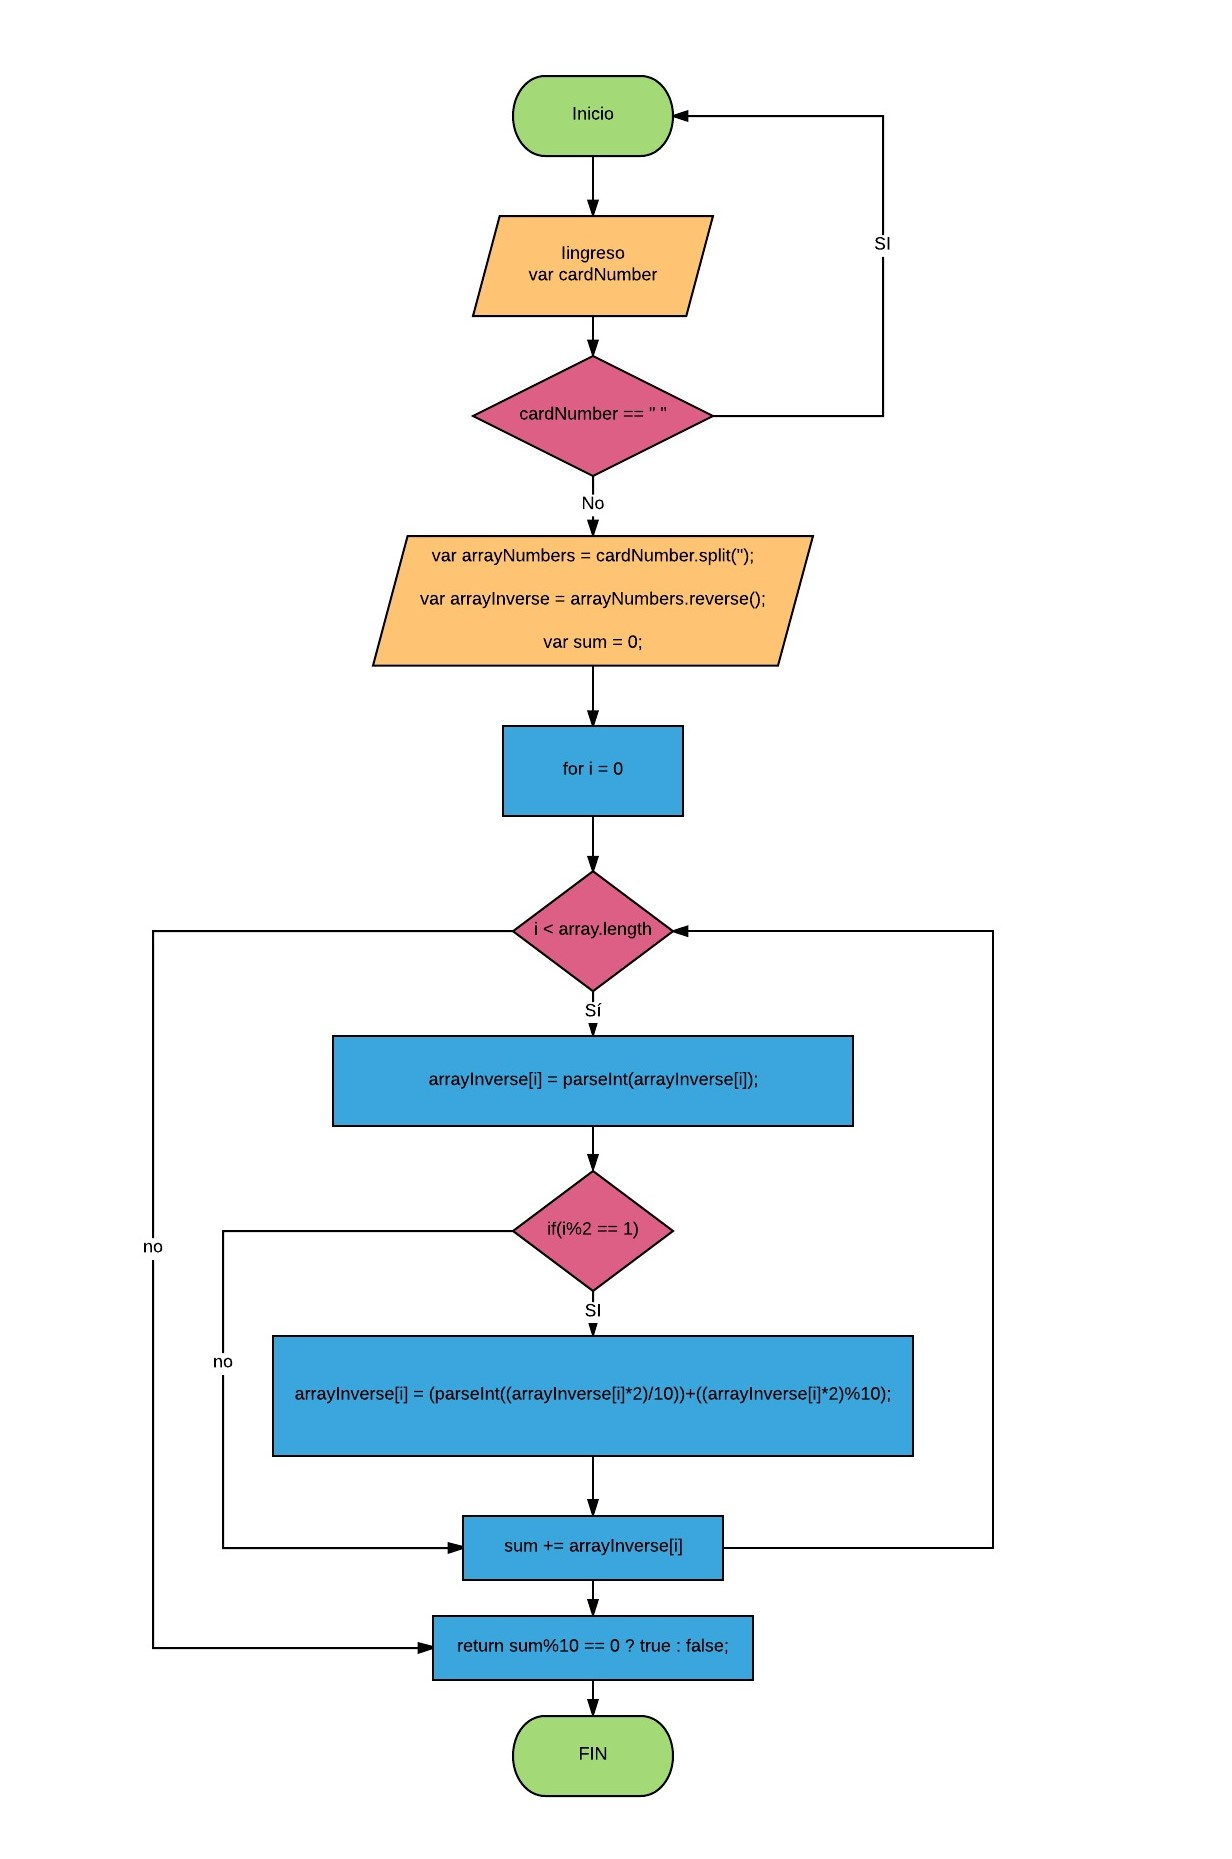
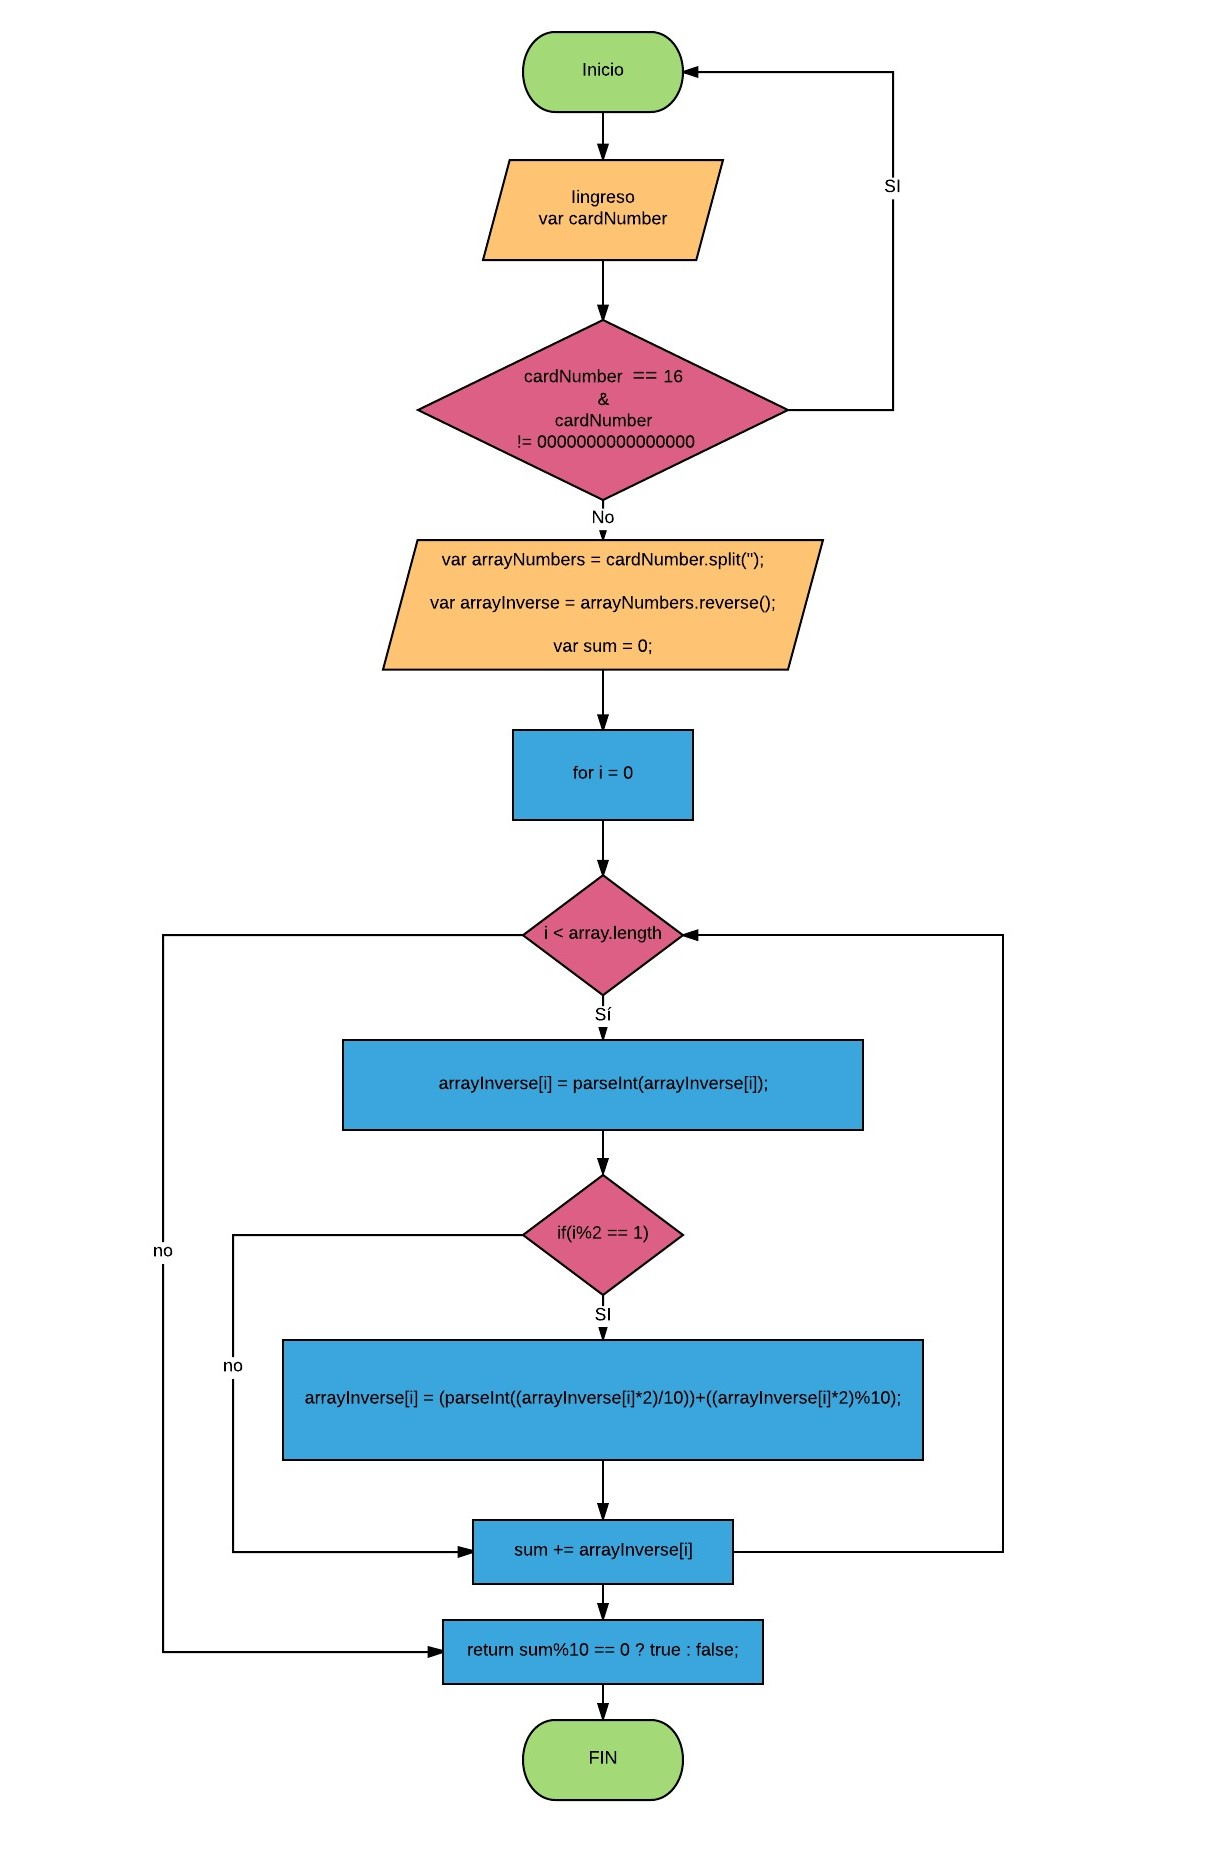
Cambios

Changed region(s): [[0.1234, 0.0, 0.7711, 0.9672], [0.8019, 0.4992, 0.8328, 0.8112], [0.7094, 0.0624, 0.7403, 0.2184]]

diff --git a/js/app.js b/js/app.js
@@ -5,6 +5,7 @@ function isValidCard(cardNumber) {
   var arrayInverse = arrayNumbers.reverse();
   //creo un acumulador suma, donde se almacenara las sumas de los digitos de la tarjeta
   var sum = 0;
+
   //Si cardNumber es un string vacío, aparece el mensaje 'Error campos vacío'
   if (cardNumber.length == 0)
     alert('Error campo vacio')
@@ -16,11 +17,11 @@ function isValidCard(cardNumber) {
       //condiciono un mod == 1, para que solo tomen los indices impares
       if (i % 2 == 1) {
         /*segun la validacón de tarjeta los indices impares (en mi caso porque tomo como inicializacion 
-            i = 0) debo multiplicarlo por dos, si el resultado de esa multiplicación me da un número de dos 
-            digitos, entonces debo sumar dichos digitos. Para obtener el PRIMER DIGITO, debo 
-            dividir el número entre 10 y mostrarlo con un parseInt y obtener solo solo la parte entera del 
-            resultado. Luego, para el SEGUNDO DIGITO, debo sacar MOD 10 del valor para obtener las unidades. 
-            Después, sumo dicho valores y el resultaado es alamacenado en el arrayInverse */
+        i = 0) debo multiplicarlo por dos, si el resultado de esa multiplicación me da un número de dos 
+        digitos, entonces debo sumar dichos digitos. Para obtener el PRIMER DIGITO, debo 
+        dividir el número entre 10 y mostrarlo con un parseInt y obtener solo solo la parte entera del 
+        resultado. Luego, para el SEGUNDO DIGITO, debo sacar MOD 10 del valor para obtener las unidades. 
+        Después, sumo dicho valores y el resultaado es alamacenado en el arrayInverse */
         arrayInverse[i] = (parseInt((arrayInverse[i] * 2) / 10)) + ((arrayInverse[i] * 2) % 10);
       }
       //Ahora sumare los elementos del array al acumulador sum para obtener un solo resultado.
@@ -34,5 +35,10 @@ function isValidCard(cardNumber) {
 //Los datos ingresados en un prompt son siempre de tipo string
 var cardNumber = prompt("Ingrese su número de tarjeta: ");
 
-//Llamo a la funcion isValidCard tomando como argumento cardNumber
-isValidCard(cardNumber);
+//Condiciono que el ingreso es de 16 digitos, además no sea un ingreso de 16 veces cero.
+if (cardNumber.length == 16 & cardNumber != 0000000000000000) {
+  ////Llamo a la funcion isValidCard tomando como argumento cardNumber
+  isValidCard(cardNumber);
+
+} else
+  document.write('Número de tarjeta NO válida');

diff --git a/index.html b/index.html
@@ -1,12 +1,16 @@
 <!DOCTYPE html>
-<html lang="en">
-<head>
-    <meta charset="UTF-8">
-    <meta name="viewport" content="width=device-width, initial-scale=1.0">
-    <meta http-equiv="X-UA-Compatible" content="ie=edge">
-    <title>Document</title>
-</head>
-<body>
-    <script type="text/javascript" src="js/app.js"></script>
-</body>
+<html>
+  <head>
+    <meta charset="utf-8">
+    <title>VALIDAR TARJETA</title>
+  </head>
+  <body>
+    <h2 align = 'center'>VALIDAR TARJETA</h2>
+    <P><h3>Su resultado es: </h3> </P>
+   
+      <script type="text/javascript" src="js/app.js">
+      
+      </script>
+
+  </body>
 </html>

diff --git a/README.md b/README.md
@@ -5,12 +5,12 @@
 3. Explicación del código.
 
 
-- - - - - - -  --- - - - - - - - -- -
+--------------------------
 
 ### 1. DIAGRAMA DE FLUJO
 
 ![validcard](assets/docs/diagramaFlujoValidCard.jpeg)
-[diagramaflujo](https://ibb.co/dy78qb)
+[diagramaflujo](https://ibb.co/crgeFb)
 
 ### 2. PSEUDOCÓDIGO
 
@@ -19,89 +19,92 @@
 
       función isValidCard <--- (cardNumber)
 
-        // crear variables
+        Crear variables
         var arrayNumbers, arrayInverse, sum
 
-        //almaceno en la variable cada ejecución
+        Almaceno en la variable cada ejecución
         arrayNumbers <-- cardNumber.split('')
         arrayInverse <-- arrayNumbers.reverse()
         sum <-- 0
 
-      Para i == 0  Hasta i < longitudArrayNumbers Con Paso i++ Hacer
+        Bucle : Para i == 0  Hasta i < longitudArrayNumbers Con Paso i++ Hacer
         arrayInverse[i] <-- parseInt(arrayInverse[i])
 
           Si (i % 2 == 1) Entonces
-            arrayInverse[i] <--suma de digitos(multiplicar*2(indice impares))
+            arrayInverse[i] <--suma de digitos(multiplicar*2 (indices impares))
 
-    	   Fin Si
+          Fin Si
          sum <-- suma de digitos d ela tarjeta
 
-    	Fin Para
-      retornar sum % 10 == 0 ? true : false
-    FinProceso
+        Fin Bucle
 
-    llamar la funcion
-      isValidCard (cardNumber)
+        retornar sum % 10 == 0 ? true : false
+        Fin función
+
+    Fin Proceso
 
 --------------------------------------------
 
 ### 3. EXPLICACIÓN DEL CÓDIGO
 
-Nos pide válidar el número de tarjeta de crédito, utilizando el algoritmo de Luhn.
+Se nos pide hacer la validación de un número de tarjeta de crédito utilizando el algoritmo de Luhn.
 
-**Ingreso de dato**
+**Ingreso de datos**
 
-Aqui solicitamos el número de tarjeta, mediante un `prompt`, guardandolo en la variable cardNumber.
+Aquí solicitamos el número de tarjeta, mediante un `prompt`, y lo guardamos en la variable cardNumber.
 
 `var cardNumber = prompt ("Ingrese su número de tarjeta: ");`
 
 Ejemplo: cardNumber = '4975226157921705'
 
->  Ojo, al ingresar un dato en el prompt, este siempre es de tipo string, asi que el número de tarjeta ingresado, será de tipo string.
+>NOTA: Al ingresar un dato mediante prompt, este siempre es de tipo string, así que el número de tarjeta ingresado, será de tipo string.
 
-**Creamos la funcion isValidCard**
+**Creación de la función isValidCard**
 
 `function isValidCard(cardNumber){}`
 
-**Proceso para validar el numero**
+**Proceso para validar el número**
   
-* El string es convertido en un array con separacion de (''), con split: 
+* Convertimos el string en un array con separacion de (''), con el método split: 
 
 `var arrayNumbers = cardNumber.split('');`
 
-obteniendo: ['4', '9', '7', '5', '2', '2', '6', '1', '5', '7', '9', '2', '1', '7', '0', '5' ]
+Obteniendo: ['4', '9', '7', '5', '2', '2', '6', '1', '5', '7', '9', '2', '1', '7', '0', '5' ]
 
-* Para seguir con el algoritmo de Luhn, invertimos el array, con reverse():
+* Para seguir con el algoritmo de Luhn, invertimos el array, con `reverse()`:
 
 `var arrayInverse = arrayNumbers.reverse();`
 
-obteniendo: ['5', '0', '7', '1', '2', '9', '7', '5', '1', '6', '2', '2', '5', '7', '9', '4' ]
+Obteniendo: ['5', '0', '7', '1', '2', '9', '7', '5', '1', '6', '2', '2', '5', '7', '9', '4' ]
 
-* Creamos el acumulador suma para almacenar más adelante, la suma de digitos.
+* Creamos el acumulador suma para almacenar más adelante, la suma de dígitos.
 
 `var sum = 0;`
 
-* Ahora vamos a convertir los elementos del array tipo string a numbers. 
+* Ahora, vamos a convertir los elementos del array tipo string a tipo number.
 
 
-    for(var i = 0; i < arrayInverse.length; i++){
+       for(var i = 0; i < arrayInverse.length; i++{
         arrayInverse[i] = parseInt(arrayInverse[i]);
-    }
+       }
 
 Se obtendrá: [5, 0, 7, 1, 2, 9, 7, 5, 1, 6, 2, 2, 5, 7, 9, 4 ]
 
 * Debemos multiplicador x2 a las posiciones impares de nuestro array, teniendo encuenta que inicializamos con i = 0, para ello hacemos un if.
 
-* Despues debemos sumar los digitos de los resultos, es decir, si en mi posición i=5, obtengo un digito de dos cifras debo sumar 1 + 8, y como lo hacemos, separando el número asi:
+* Despues debemos sumar los dígitos de los resultados, es decir, si en mi posición i = 5, obtengo un dígito de dos cifras, por ejemplo, 18, debo sumar 1 + 8:
 
-18 / 10 = 1.8, con parseInt se obtendra 1
+* Aplicando parseInt obtenemos la parte entera: 
 
-18 MOD 10 = 8
+`18 / 10 = 1.8` &rarr;  `parseInt(18 / 10) = 1`
+
+* Aplicando MOD obtenemos el segundo dígito 
+
+`18 % 10 = 8`
 
 obteniendo los digitos separados
 
 En código será asi:
-
 
     if(i % 2 == 1){
       arrayInverse[i] = (parseInt((arrayInverse[i] * 2 )/ 10 )) + ((arrayInverse[i] * 2 ) % 10 );
@@ -112,7 +115,7 @@ OJO: Lo que ejecuta el IF será la suma de los digitos, almacenado en el mismo a
 
 * Debemos obtener la suma de digitos, para ellos utilizaremos nuestro acumulador sum, creado anteriormente
 
-          sum += arrayInverse[i];		
+      sum += arrayInverse[i];		
 
     dada como resultado sgunn nuestro ejemplo: 70
 
@@ -126,6 +129,6 @@ OJO: Lo que ejecuta el IF será la suma de los digitos, almacenado en el mismo a
 
       return sum % 10 == 0 ? document.write( true + ', su número de tarjeta es válido')  : document.write( false + ', su número de tarjeta NO es válido') ; 
 
-* Finalmente, no olvidar en llamar a la función.
+* Finalmente, no olvidar invocar la función.
 
       isValidCard (cardNumber);
